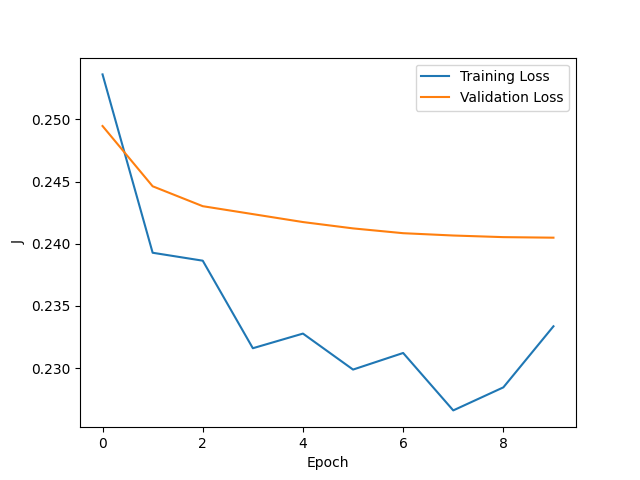
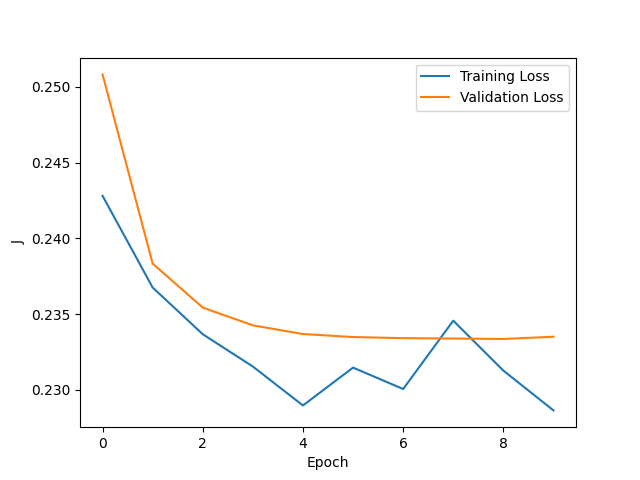
HE initializer

diff --git a/src/layers.py b/src/layers.py
@@ -130,10 +130,12 @@ class TanhLayer(Layer):
         return np.eye(len(self.getPrevOut()[0])) * diag[:, np.newaxis]
 
 class FullyConnectedLayer(Layer):
-    def __init__(self, sizeIn, sizeOut, xavier_init = True):
+    def __init__(self, sizeIn, sizeOut, xavier_init = False, he_init = False):
         super().__init__()
         if xavier_init:
             self.xavier_init(sizeIn, sizeOut)
+        elif he_init:
+            self.he_init(sizeIn, sizeOut)
         else:
             self.weights = np.random.uniform(-0.001, 0.001, (sizeOut, sizeIn)).T
             self.biases = np.random.uniform(-0.001, 0.001, (1, sizeOut))
@@ -152,6 +154,13 @@ class FullyConnectedLayer(Layer):
         bound = np.sqrt(6/(sizeIn+sizeOut))
         self.weights = np.random.uniform(-bound, bound, (sizeOut, sizeIn)).T
         self.biases = np.random.uniform(-bound, bound, (1, sizeOut))
+
+    def he_init(self, sizeIn, sizeOut):
+        mean = 0
+        std_dev1 = np.sqrt(2/(sizeIn))
+        std_dev2 = np.sqrt(2/1)
+        self.weights = np.random.normal(mean, std_dev1, (sizeIn, sizeOut))
+        self.biases = np.random.normal(mean, std_dev2, (1, sizeOut))
 
     def getWeights(self):
         return self.weights

diff --git a/src/util.py b/src/util.py
@@ -1,6 +1,6 @@
 import matplotlib.pyplot as plt
 import cv2
-import tqdm
+from tqdm import tqdm
 import numpy as np
 import src.layers as layers
 
@@ -95,6 +95,14 @@ def train_model(layers_, X_train, Y_train, X_val, Y_val, filename="default", lea
         # print("Epoch: %d, Train Loss: %f, Val Loss: %f" % (epoch, eval, val_eval))
         epoch += 1
         pbar.update(1)
+
+    # Accuracies
+    Yhat_train = forward(layers_, X_train)   
+    accuracy_train = (Y_train.argmax(axis=1) == Yhat_train.argmax(axis=1)).mean() * 100
+    Yhat_valid = forward(layers_, X_val)   
+    accuracy_valid = (Y_val.argmax(axis=1) == Yhat_valid.argmax(axis=1)).mean() * 100
+    print("Final training accuracy: %d" % accuracy_train, "\nFinal validation accuracy: %f" %accuracy_valid)
+
     pbar.close()
 
     # plot log loss
